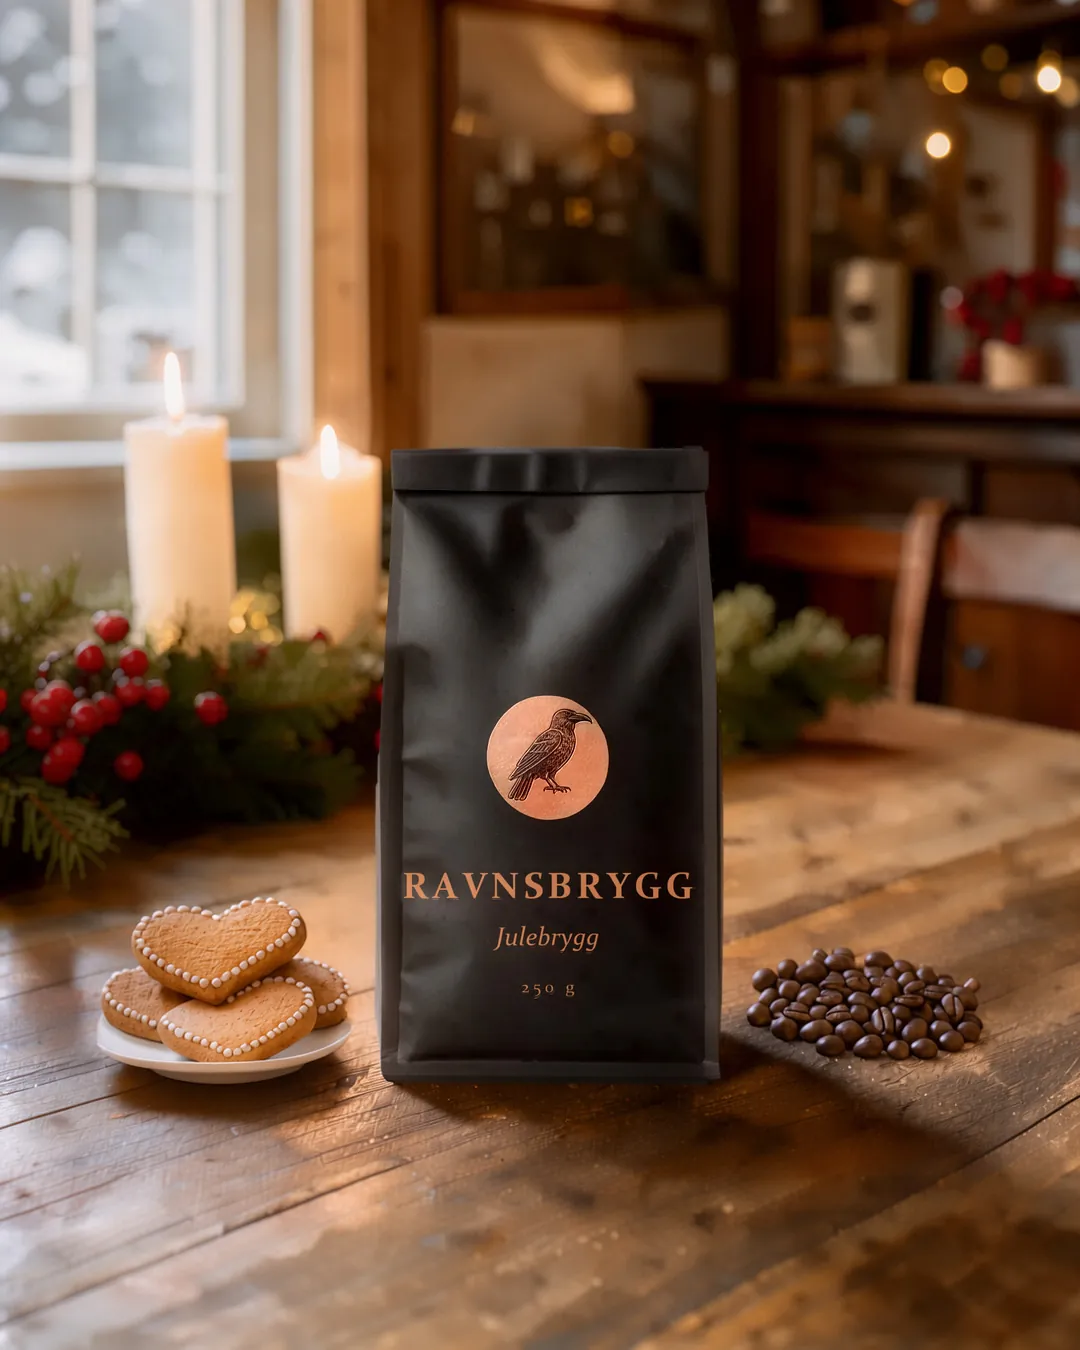
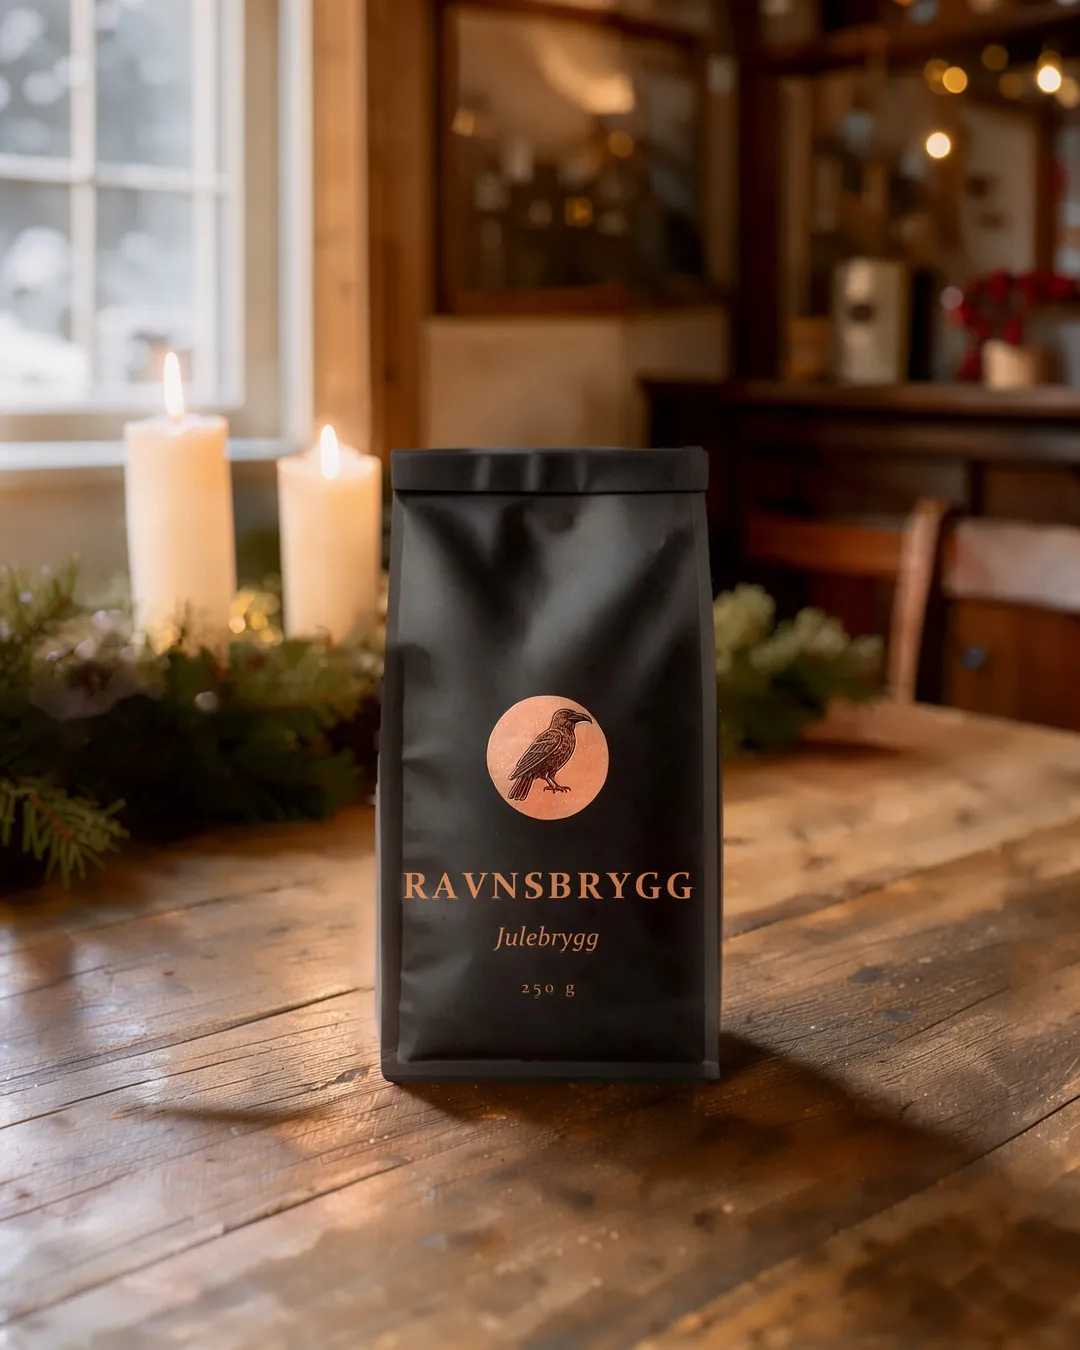
produktbilder: retusjerte demobilder (Vardlys uten stjerne, Ravnsbrygg uten presskanne og pepperkaker)
Claude-Session: https://claude.ai/code/session_01XYMWMmzZAfnwjmekNJhn6w

diff --git a/produktbilder/index.html b/produktbilder/index.html
@@ -316,7 +316,7 @@ html.lenis,html.lenis body{height:auto}.lenis.lenis-smooth{scroll-behavior:auto!
     </div>
     <div>
       <div class="ba" id="ba" style="--x:62%"><span class="cur" aria-hidden="true">Dra</span>
-        <img src="img/vardlys-vindu.webp" srcset="img/vardlys-vindu-540.webp 540w, img/vardlys-vindu.webp 1080w" sizes="(max-width:900px) 92vw, 560px" width="1080" height="1350" alt="Etter: duftlyset tent i en vinduskarm med papirstjerne, strikkepledd og granbar" fetchpriority="high">
+        <img src="img/vardlys-vindu.webp" srcset="img/vardlys-vindu-540.webp 540w, img/vardlys-vindu.webp 1080w" sizes="(max-width:900px) 92vw, 560px" width="1080" height="1350" alt="Etter: duftlyset tent i en vinduskarm en vinterkveld, med strikkepledd og granbar" fetchpriority="high">
         <div class="b-wrap"><img src="img/vardlys-for.webp" srcset="img/vardlys-for-540.webp 540w, img/vardlys-for.webp 1080w" sizes="(max-width:900px) 92vw, 560px" width="1080" height="1350" alt="Før: vanlig produktbilde av duftlyset på hvit bakgrunn"></div>
         <span class="bar" aria-hidden="true"></span>
         <span class="t f">Før</span><span class="t e">Etter</span>
@@ -332,10 +332,10 @@ html.lenis,html.lenis body{height:auto}.lenis.lenis-smooth{scroll-behavior:auto!
     <div class="tile for"><img src="img/lunnhei-for.webp" srcset="img/lunnhei-for-540.webp 540w, img/lunnhei-for.webp 1080w" sizes="(max-width:900px) 200px, 280px" width="1080" height="1350" alt="Før: nattkremen på hvit bakgrunn" decoding="async"><span class="chip">Før</span></div>
     <div class="tile"><img src="img/lunnhei-marmor.webp" srcset="img/lunnhei-marmor-540.webp 540w, img/lunnhei-marmor.webp 1080w" sizes="(max-width:900px) 200px, 280px" width="1080" height="1350" alt="Etter: nattkremen på lys marmor med telys og eukalyptus" decoding="async"></div>
     <div class="tile for"><img src="img/ravnsbrygg-for.webp" srcset="img/ravnsbrygg-for-540.webp 540w, img/ravnsbrygg-for.webp 1080w" sizes="(max-width:900px) 200px, 280px" width="1080" height="1350" alt="Før: kaffeposen på hvit bakgrunn" decoding="async"><span class="chip">Før</span></div>
-    <div class="tile"><img src="img/ravnsbrygg-kafe.webp" srcset="img/ravnsbrygg-kafe-540.webp 540w, img/ravnsbrygg-kafe.webp 1080w" sizes="(max-width:900px) 200px, 280px" width="1080" height="1350" alt="Etter: kaffeposen på en kafédisk med presskanne og julelys" decoding="async"></div>
-    <div class="tile"><img src="img/ravnsbrygg-hjemme.webp" srcset="img/ravnsbrygg-hjemme-540.webp 540w, img/ravnsbrygg-hjemme.webp 1080w" sizes="(max-width:900px) 200px, 280px" width="1080" height="1350" alt="Etter: kaffeposen på et kjøkkenbord med pepperkaker og levende lys" decoding="async"></div>
+    <div class="tile"><img src="img/ravnsbrygg-kafe.webp" srcset="img/ravnsbrygg-kafe-540.webp 540w, img/ravnsbrygg-kafe.webp 1080w" sizes="(max-width:900px) 200px, 280px" width="1080" height="1350" alt="Etter: kaffeposen på en kafédisk med en kopp kaffe og julelys" decoding="async"></div>
+    <div class="tile"><img src="img/ravnsbrygg-hjemme.webp" srcset="img/ravnsbrygg-hjemme-540.webp 540w, img/ravnsbrygg-hjemme.webp 1080w" sizes="(max-width:900px) 200px, 280px" width="1080" height="1350" alt="Etter: kaffeposen på et kjøkkenbord med levende lys og granbar" decoding="async"></div>
     <div class="tile for"><img src="img/vardlys-for.webp" srcset="img/vardlys-for-540.webp 540w, img/vardlys-for.webp 1080w" sizes="(max-width:900px) 200px, 280px" width="1080" height="1350" alt="Før: duftlyset på hvit bakgrunn" decoding="async"><span class="chip">Før</span></div>
-    <div class="tile"><img src="img/vardlys-vindu.webp" srcset="img/vardlys-vindu-540.webp 540w, img/vardlys-vindu.webp 1080w" sizes="(max-width:900px) 200px, 280px" width="1080" height="1350" alt="Etter: duftlyset tent i en vinduskarm med papirstjerne" decoding="async"></div>
+    <div class="tile"><img src="img/vardlys-vindu.webp" srcset="img/vardlys-vindu-540.webp 540w, img/vardlys-vindu.webp 1080w" sizes="(max-width:900px) 200px, 280px" width="1080" height="1350" alt="Etter: duftlyset tent i en vinduskarm en vinterkveld" decoding="async"></div>
   </div>
 </section>
 <p class="wall-cap">Hvert stemningsbilde er laget av ett vanlig produktbilde. Vardlys, Ravnsbrygg og Lunnhei er demoprodukter vi har laget selv, ikke kunders.</p>
@@ -346,17 +346,17 @@ html.lenis,html.lenis body{height:auto}.lenis.lenis-smooth{scroll-behavior:auto!
       <p class="label">Tre demoprodukter, fire bilder</p>
       <h2 style="margin:24px 0 30px">Hver butikk får <em>sin egen stil.</em></h2>
       <div class="tabs" role="tablist" aria-label="Velg bilde">
-        <button class="tab" role="tab" aria-selected="true" aria-controls="m1" id="t1"><span>01</span><b>Kaffe på kafé</b><small>Kafédisk, presskanne og granbar. Til nettbutikken og julekampanjen.</small></button>
-        <button class="tab" role="tab" aria-selected="false" aria-controls="m2" id="t2"><span>02</span><b>Kaffe hjemme</b><small>Samme pose, nytt bilde: kjøkkenbord, pepperkaker og levende lys.</small></button>
+        <button class="tab" role="tab" aria-selected="true" aria-controls="m1" id="t1"><span>01</span><b>Kaffe på kafé</b><small>Kafédisk, en kopp kaffe og julelys på hylla. Til nettbutikken og julekampanjen.</small></button>
+        <button class="tab" role="tab" aria-selected="false" aria-controls="m2" id="t2"><span>02</span><b>Kaffe hjemme</b><small>Samme pose, nytt bilde: kjøkkenbord, levende lys og granbar.</small></button>
         <button class="tab" role="tab" aria-selected="false" aria-controls="m3" id="t3"><span>03</span><b>Nattkrem</b><small>Lys marmor, eukalyptus og telys. Rolig og rent, i merkets egne farger.</small></button>
-        <button class="tab" role="tab" aria-selected="false" aria-controls="m4" id="t4"><span>04</span><b>Duftlys</b><small>Vinduskarm, papirstjerne og strikk. Varmt og nordisk.</small></button>
+        <button class="tab" role="tab" aria-selected="false" aria-controls="m4" id="t4"><span>04</span><b>Duftlys</b><small>Vinduskarm, strikkepledd og granbar en vinterkveld. Varmt og nordisk.</small></button>
       </div>
     </div>
     <div class="stage rv mask">
-      <div class="pane on" id="m1" role="tabpanel" aria-labelledby="t1"><img src="img/ravnsbrygg-kafe.webp" srcset="img/ravnsbrygg-kafe-540.webp 540w, img/ravnsbrygg-kafe.webp 1080w" sizes="(max-width:900px) 92vw, 640px" width="1080" height="1350" alt="Kaffeposen på en kafédisk med presskanne og julelys" loading="lazy" decoding="async"><div class="inset"><img src="img/ravnsbrygg-for.webp" srcset="img/ravnsbrygg-for-540.webp 540w, img/ravnsbrygg-for.webp 1080w" sizes="160px" width="1080" height="1350" alt="Før: kaffeposen på hvit bakgrunn" loading="lazy" decoding="async"><b>Før</b></div></div>
-      <div class="pane" id="m2" role="tabpanel" aria-labelledby="t2"><img src="img/ravnsbrygg-hjemme.webp" srcset="img/ravnsbrygg-hjemme-540.webp 540w, img/ravnsbrygg-hjemme.webp 1080w" sizes="(max-width:900px) 92vw, 640px" width="1080" height="1350" alt="Kaffeposen på et kjøkkenbord med pepperkaker og levende lys" loading="lazy" decoding="async"><div class="inset"><img src="img/ravnsbrygg-for.webp" srcset="img/ravnsbrygg-for-540.webp 540w, img/ravnsbrygg-for.webp 1080w" sizes="160px" width="1080" height="1350" alt="Før: kaffeposen på hvit bakgrunn" loading="lazy" decoding="async"><b>Før</b></div></div>
+      <div class="pane on" id="m1" role="tabpanel" aria-labelledby="t1"><img src="img/ravnsbrygg-kafe.webp" srcset="img/ravnsbrygg-kafe-540.webp 540w, img/ravnsbrygg-kafe.webp 1080w" sizes="(max-width:900px) 92vw, 640px" width="1080" height="1350" alt="Kaffeposen på en kafédisk med en kopp kaffe og julelys" loading="lazy" decoding="async"><div class="inset"><img src="img/ravnsbrygg-for.webp" srcset="img/ravnsbrygg-for-540.webp 540w, img/ravnsbrygg-for.webp 1080w" sizes="160px" width="1080" height="1350" alt="Før: kaffeposen på hvit bakgrunn" loading="lazy" decoding="async"><b>Før</b></div></div>
+      <div class="pane" id="m2" role="tabpanel" aria-labelledby="t2"><img src="img/ravnsbrygg-hjemme.webp" srcset="img/ravnsbrygg-hjemme-540.webp 540w, img/ravnsbrygg-hjemme.webp 1080w" sizes="(max-width:900px) 92vw, 640px" width="1080" height="1350" alt="Kaffeposen på et kjøkkenbord med levende lys og granbar" loading="lazy" decoding="async"><div class="inset"><img src="img/ravnsbrygg-for.webp" srcset="img/ravnsbrygg-for-540.webp 540w, img/ravnsbrygg-for.webp 1080w" sizes="160px" width="1080" height="1350" alt="Før: kaffeposen på hvit bakgrunn" loading="lazy" decoding="async"><b>Før</b></div></div>
       <div class="pane" id="m3" role="tabpanel" aria-labelledby="t3"><img src="img/lunnhei-marmor.webp" srcset="img/lunnhei-marmor-540.webp 540w, img/lunnhei-marmor.webp 1080w" sizes="(max-width:900px) 92vw, 640px" width="1080" height="1350" alt="Nattkremen på lys marmor med telys og eukalyptus" loading="lazy" decoding="async"><div class="inset"><img src="img/lunnhei-for.webp" srcset="img/lunnhei-for-540.webp 540w, img/lunnhei-for.webp 1080w" sizes="160px" width="1080" height="1350" alt="Før: nattkremen på hvit bakgrunn" loading="lazy" decoding="async"><b>Før</b></div></div>
-      <div class="pane" id="m4" role="tabpanel" aria-labelledby="t4"><img src="img/vardlys-vindu.webp" srcset="img/vardlys-vindu-540.webp 540w, img/vardlys-vindu.webp 1080w" sizes="(max-width:900px) 92vw, 640px" width="1080" height="1350" alt="Duftlyset tent i en vinduskarm med papirstjerne" loading="lazy" decoding="async"><div class="inset"><img src="img/vardlys-for.webp" srcset="img/vardlys-for-540.webp 540w, img/vardlys-for.webp 1080w" sizes="160px" width="1080" height="1350" alt="Før: duftlyset på hvit bakgrunn" loading="lazy" decoding="async"><b>Før</b></div></div>
+      <div class="pane" id="m4" role="tabpanel" aria-labelledby="t4"><img src="img/vardlys-vindu.webp" srcset="img/vardlys-vindu-540.webp 540w, img/vardlys-vindu.webp 1080w" sizes="(max-width:900px) 92vw, 640px" width="1080" height="1350" alt="Duftlyset tent i en vinduskarm en vinterkveld" loading="lazy" decoding="async"><div class="inset"><img src="img/vardlys-for.webp" srcset="img/vardlys-for-540.webp 540w, img/vardlys-for.webp 1080w" sizes="160px" width="1080" height="1350" alt="Før: duftlyset på hvit bakgrunn" loading="lazy" decoding="async"><b>Før</b></div></div>
     </div>
   </div>
 </section>
